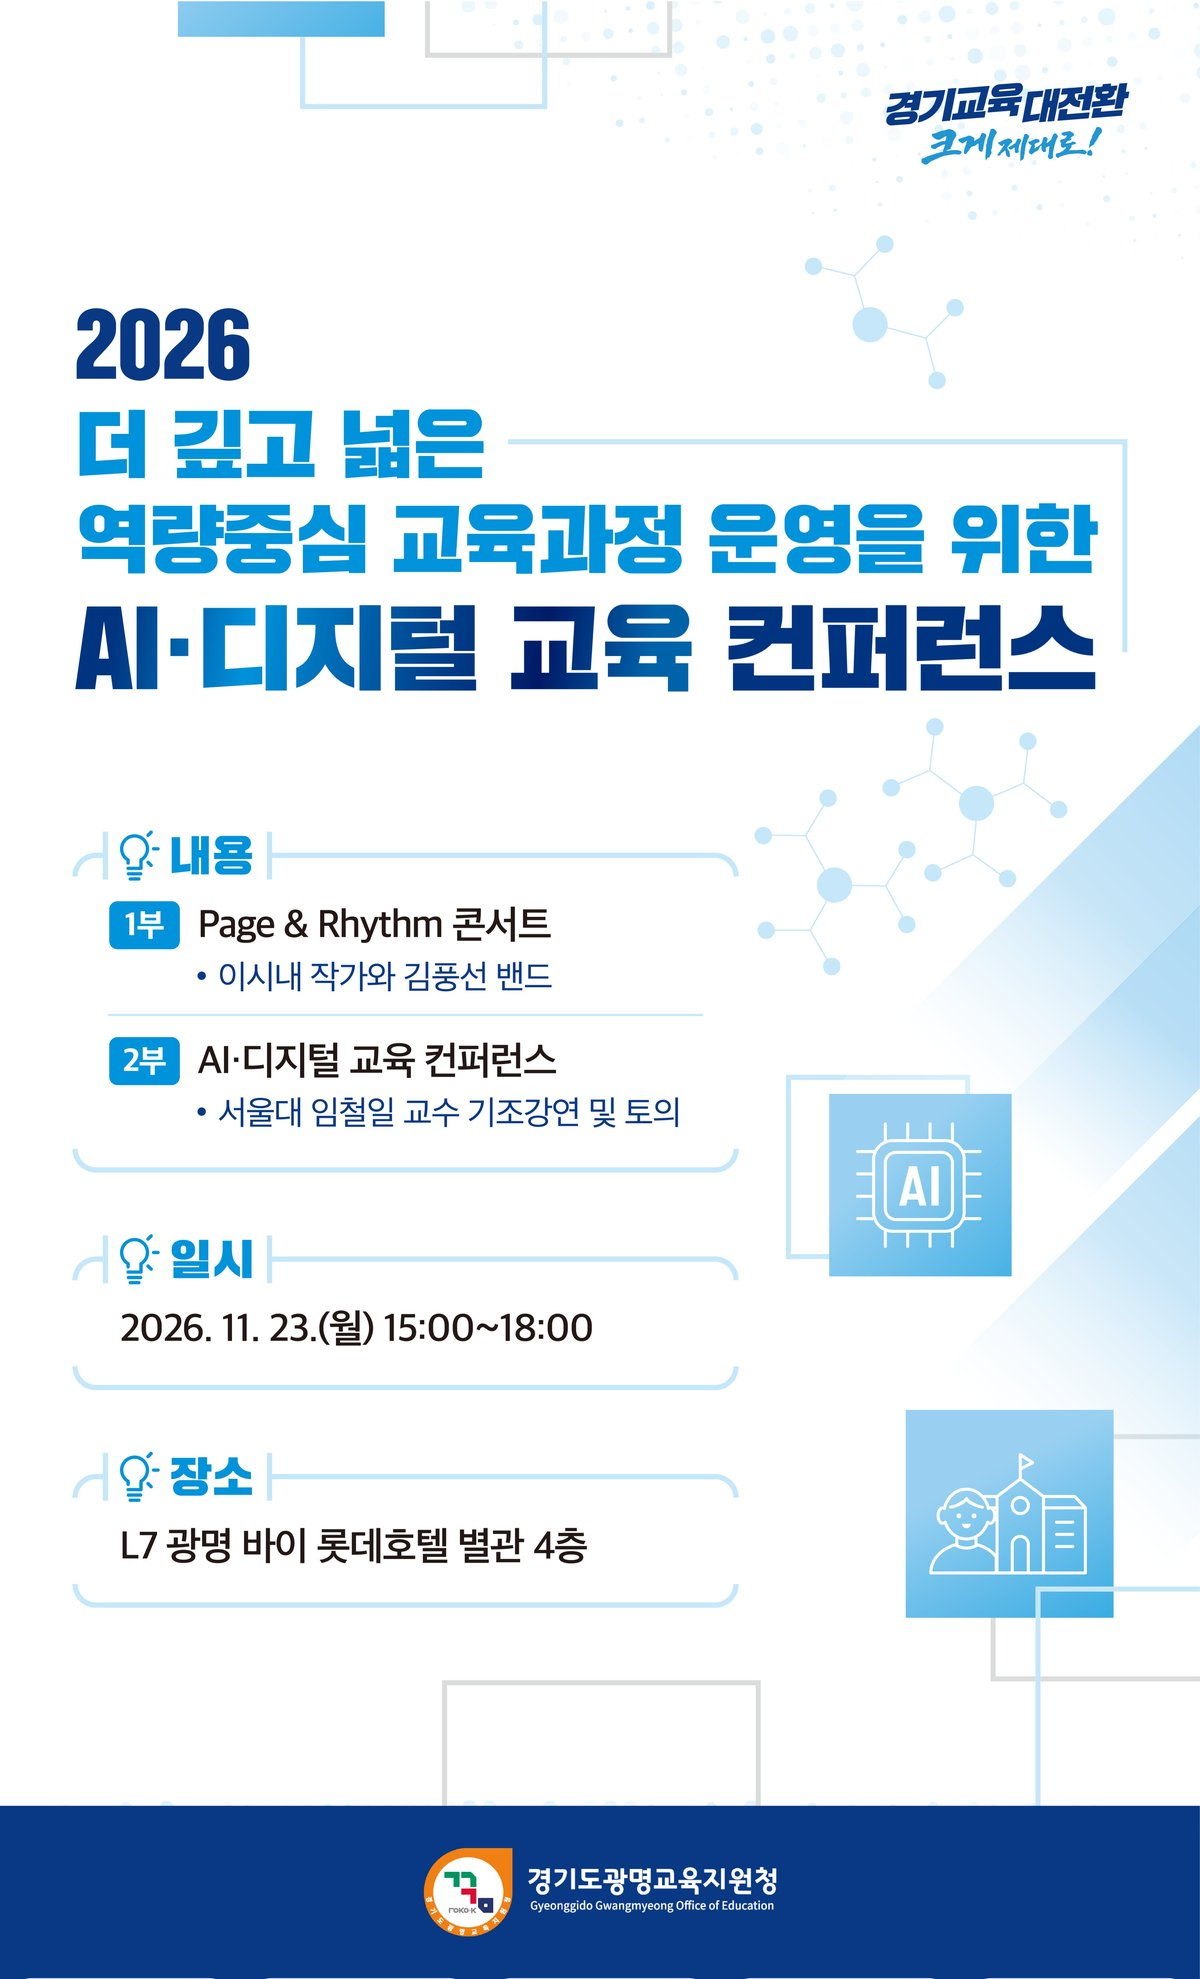
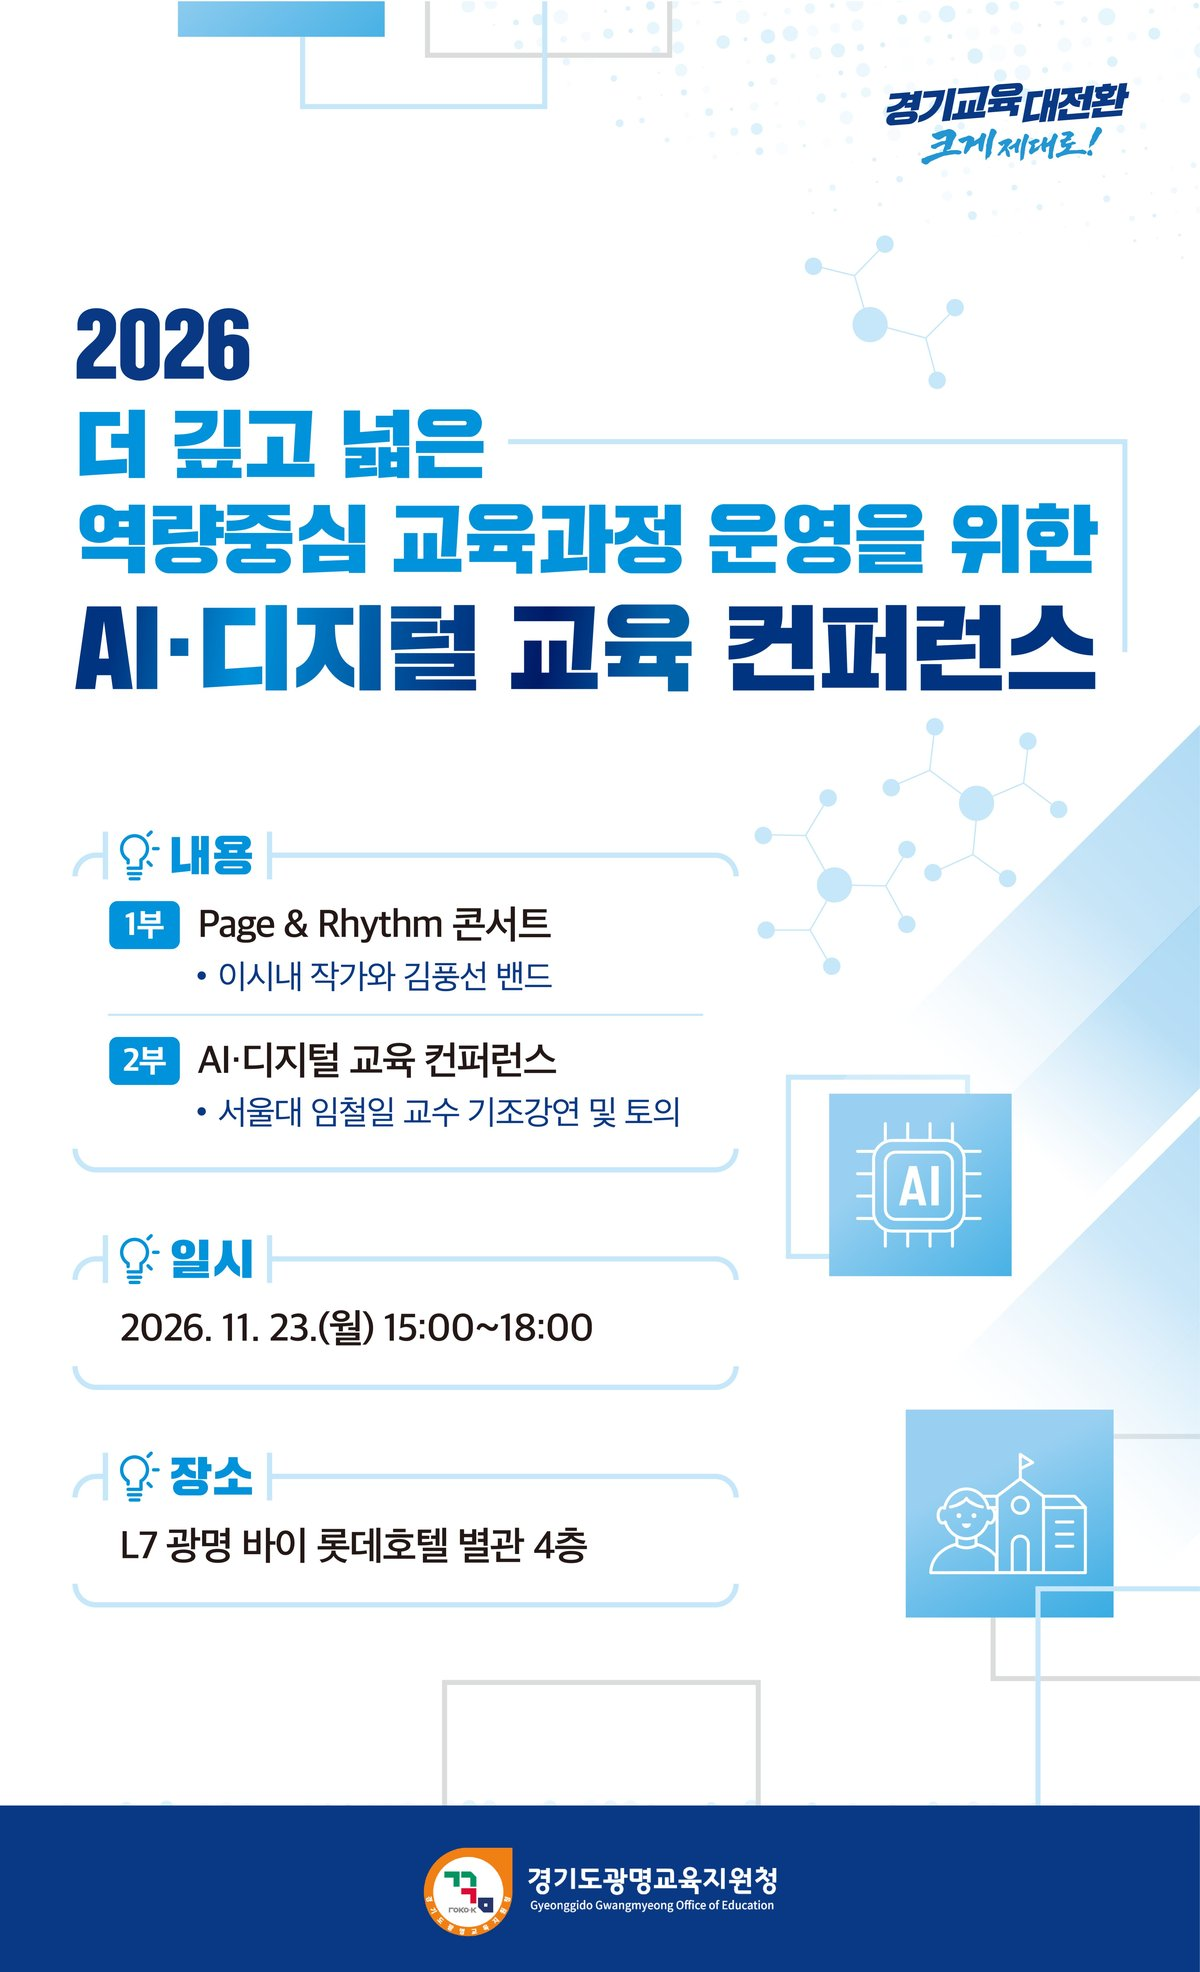
Add files via upload

diff --git a/index.html b/index.html
@@ -6,7 +6,7 @@
 <title>2026 AI·디지털 교육 컨퍼런스 초대장</title>
 <meta name="description" content="2026. 11. 23.(월) 15:00 · L7 광명 바이 롯데호텔 별관 4층 그랜드볼룸">
 
-<!-- 카카오톡·SNS 미리보기 (배포 후 https://designportmain.github.io/ai-conference 부분을 실제 주소로 바꿔주세요) -->
+<!-- 카카오톡·SNS 미리보기: 주소가 바뀌면 아래 두 줄의 주소도 함께 바꿔주세요 -->
 <meta property="og:type" content="website">
 <meta property="og:title" content="경기도광명교육지원청">
 <meta property="og:description" content="2026 AI·디지털 교육 컨퍼런스에 초대합니다">
@@ -17,17 +17,39 @@
 
 <style>
   *{margin:0;padding:0;box-sizing:border-box}
-  html{scroll-behavior:smooth;background:#e9f3fb}
+  html,body{height:100%;background:#dfe9f3;overflow:hidden;overscroll-behavior:none}
   body{font-family:-apple-system,"Apple SD Gothic Neo","Malgun Gothic",sans-serif}
-  .wrap{max-width:480px;margin:0 auto;background:#fff;padding-bottom:calc(14.67vw + env(safe-area-inset-bottom));box-shadow:0 0 24px rgba(11,57,133,.12)}
-  @media(min-width:480px){.wrap{padding-bottom:calc(70px + env(safe-area-inset-bottom))}}
-  section{position:relative;line-height:0}
-  section img{width:100%;height:auto;display:block}
+  .app{position:relative;height:100%;height:100dvh;max-width:480px;margin:0 auto;display:flex;flex-direction:column;background:#fff;box-shadow:0 0 24px rgba(11,57,133,.15)}
+  /* 가로 넘김 영역 */
+  .slider{flex:1;min-height:0;display:flex;overflow-x:auto;overflow-y:hidden;scroll-snap-type:x mandatory;scroll-behavior:smooth;scrollbar-width:none;-webkit-overflow-scrolling:touch}
+  .slider::-webkit-scrollbar{display:none}
+  .page{flex:0 0 100%;height:100%;scroll-snap-align:start;scroll-snap-stop:always;overflow-y:auto;overflow-x:hidden;scrollbar-width:none}
+  .page::-webkit-scrollbar{display:none}
+  .inner{min-height:100%;display:flex;align-items:center}
+  .art{position:relative;width:100%;line-height:0}
+  .art img{width:100%;height:auto;display:block;-webkit-user-drag:none;user-select:none}
+  .p1{background:linear-gradient(#fff 50%,#093785 50%)}
+  .p2,.p3{background:#fff}
+  .p4{background:linear-gradient(#0f3c7d 50%,#c5e8fc 50%)}
   .anchor{position:absolute;left:0;width:1px;height:1px}
   .hot{position:absolute;display:block;border-radius:12px;-webkit-tap-highlight-color:transparent}
   .hot:active{background:rgba(0,120,215,.18)}
   @media(hover:hover){.hot:hover{background:rgba(0,120,215,.10);outline:2px solid rgba(0,120,215,.35)}}
-  nav{position:fixed;left:50%;bottom:0;transform:translateX(-50%);width:100%;max-width:480px;z-index:10;line-height:0;background:#0b3985;padding-bottom:env(safe-area-inset-bottom)}
+  /* 페이지 표시 점 */
+  .dots{position:absolute;left:50%;transform:translateX(-50%);bottom:calc(var(--navh) + 10px);display:flex;gap:8px;padding:6px 10px;border-radius:12px;background:rgba(255,255,255,.8);box-shadow:0 1px 4px rgba(11,57,133,.2);pointer-events:none;z-index:5}
+  .dots i{width:8px;height:8px;border-radius:4px;background:rgba(255,255,255,.75);box-shadow:0 0 0 1px rgba(11,57,133,.35);transition:.25s}
+  .dots i.on{width:22px;background:#0090da}
+  /* PC용 좌우 화살표 */
+  .arrow{position:absolute;top:calc(50% - var(--navh)/2);transform:translateY(-50%);width:40px;height:40px;border-radius:50%;border:0;background:rgba(11,57,133,.55);color:#fff;font-size:20px;cursor:pointer;z-index:6;display:none}
+  .arrow.prev{left:8px} .arrow.next{right:8px}
+  @media(hover:hover) and (pointer:fine){.arrow{display:block}.arrow[disabled]{opacity:0;pointer-events:none}}
+  /* 처음 한 번 넘김 안내 */
+  .hint{position:absolute;right:12px;top:calc(50% - var(--navh)/2);transform:translateY(-50%);background:rgba(11,57,133,.8);color:#fff;font-size:13px;line-height:1;padding:9px 12px;border-radius:20px;z-index:6;pointer-events:none;animation:nudge 1.2s ease-in-out 3;transition:opacity .4s}
+  @keyframes nudge{50%{transform:translate(-8px,-50%)}}
+  .hint.hide{opacity:0}
+  @media(hover:hover) and (pointer:fine){.hint{display:none}}
+  /* 하단 메뉴 */
+  nav{position:relative;flex:none;line-height:0;background:#0b3985;padding-bottom:env(safe-area-inset-bottom)}
   nav img{width:100%;height:auto;display:block}
   nav .tabs{position:absolute;inset:0 0 env(safe-area-inset-bottom) 0;display:flex}
   nav .tabs a{flex:1;position:relative;-webkit-tap-highlight-color:transparent}
@@ -36,39 +58,99 @@
 </style>
 </head>
 <body>
-<div class="wrap">
-  <section id="home"><img src="img/sec1.jpg" width="1200" height="1979" alt="2026 더 깊고 넓은 역량중심 교육과정 운영을 위한 AI·디지털 교육 컨퍼런스. 일시 2026년 11월 23일(월) 15:00~18:00, 장소 L7 광명 바이 롯데호텔 별관 4층"></section>
-  <section id="schedule"><img src="img/sec2.jpg" width="1200" height="1924" alt="초대의 글과 일정안내" loading="lazy"></section>
-  <section id="program"><img src="img/sec3.jpg" width="1200" height="1924" alt="Page &amp; Rhythm 공감 콘서트 프로그램, 운영자료와 설문 링크" loading="lazy">
-    <span class="anchor" id="materials" style="top:58%"></span>
-    <span class="anchor" id="survey" style="top:85%"></span>
-    <a class="hot" href="https://m.site.naver.com/2kIKh" target="_blank" rel="noopener" style="left:24.16%;top:68.00%;width:20.91%;height:12.49%" aria-label="학교 사례 모음"></a><a class="hot" href="https://m.site.naver.com/2kN09" target="_blank" rel="noopener" style="left:54.87%;top:68.00%;width:21.04%;height:12.49%" aria-label="원고 및 발제문"></a><a class="hot" href="https://m.site.naver.com/2kIIy" target="_blank" rel="noopener" style="left:15.18%;top:86.09%;width:14.98%;height:10.98%" aria-label="사전질문"></a><a class="hot" href="https://m.site.naver.com/2kII1" target="_blank" rel="noopener" style="left:42.58%;top:86.09%;width:14.91%;height:10.98%" aria-label="만족도설문"></a><a class="hot" href="https://m.site.naver.com/2kJ4w" target="_blank" rel="noopener" style="left:69.84%;top:86.09%;width:14.91%;height:10.98%" aria-label="자리배치도"></a>
-  </section>
-  <section id="map"><img src="img/sec4.jpg" width="1200" height="1924" alt="오시는 길: L7 광명 바이 롯데호텔 별관 4층 그랜드볼룸" loading="lazy"><a class="hot" href="https://map.naver.com/p/search/L7%20%EA%B4%91%EB%AA%85%20%EB%B0%94%EC%9D%B4%20%EB%A1%AF%EB%8D%B0%ED%98%B8%ED%85%94" target="_blank" rel="noopener" style="left:8.84%;top:81.14%;width:39.82%;height:5.72%" aria-label="네이버 지도에서 보기"></a><a class="hot" href="https://map.kakao.com/link/search/L7%EA%B4%91%EB%AA%85%EB%B0%94%EC%9D%B4%EB%A1%AF%EB%8D%B0%ED%98%B8%ED%85%94" target="_blank" rel="noopener" style="left:51.42%;top:81.14%;width:39.69%;height:5.72%" aria-label="카카오맵에서 보기"></a></section>
+<div class="app">
+  <div class="slider" id="slider">
+    <section class="page p1" id="home"><div class="inner"><div class="art">
+      <img src="img/sec1.jpg" width="1200" height="1972" alt="2026 더 깊고 넓은 역량중심 교육과정 운영을 위한 AI·디지털 교육 컨퍼런스. 일시 2026년 11월 23일(월) 15:00~18:00, 장소 L7 광명 바이 롯데호텔 별관 4층">
+    </div></div></section>
+    <section class="page p2" id="schedule"><div class="inner"><div class="art">
+      <img src="img/sec2.jpg" width="1200" height="1924" alt="초대의 글과 일정안내">
+    </div></div></section>
+    <section class="page p3" id="program"><div class="inner"><div class="art">
+      <img src="img/sec3.jpg" width="1200" height="1924" alt="Page &amp; Rhythm 공감 콘서트 프로그램, 운영자료와 설문 링크">
+      <span class="anchor" id="materials" style="top:58%"></span>
+      <span class="anchor" id="survey" style="top:85%"></span>
+      <a class="hot" href="https://m.site.naver.com/2kIKh" target="_blank" rel="noopener" style="left:24.16%;top:68.00%;width:20.91%;height:12.49%" aria-label="학교 사례 모음"></a><a class="hot" href="https://m.site.naver.com/2kN09" target="_blank" rel="noopener" style="left:54.87%;top:68.00%;width:21.04%;height:12.49%" aria-label="원고 및 발제문"></a><a class="hot" href="https://m.site.naver.com/2kIIy" target="_blank" rel="noopener" style="left:15.18%;top:86.09%;width:14.98%;height:10.98%" aria-label="사전질문"></a><a class="hot" href="https://m.site.naver.com/2kII1" target="_blank" rel="noopener" style="left:42.58%;top:86.09%;width:14.91%;height:10.98%" aria-label="만족도설문"></a><a class="hot" href="https://m.site.naver.com/2kJ4w" target="_blank" rel="noopener" style="left:69.84%;top:86.09%;width:14.91%;height:10.98%" aria-label="자리배치도"></a>
+    </div></div></section>
+    <section class="page p4" id="map"><div class="inner"><div class="art">
+      <img src="img/sec4.jpg" width="1200" height="1924" alt="오시는 길: L7 광명 바이 롯데호텔 별관 4층 그랜드볼룸"><a class="hot" href="https://map.naver.com/p/search/L7%20%EA%B4%91%EB%AA%85%20%EB%B0%94%EC%9D%B4%20%EB%A1%AF%EB%8D%B0%ED%98%B8%ED%85%94" target="_blank" rel="noopener" style="left:8.84%;top:81.14%;width:39.82%;height:5.72%" aria-label="네이버 지도에서 보기"></a><a class="hot" href="https://map.kakao.com/link/search/L7%EA%B4%91%EB%AA%85%EB%B0%94%EC%9D%B4%EB%A1%AF%EB%8D%B0%ED%98%B8%ED%85%94" target="_blank" rel="noopener" style="left:51.42%;top:81.14%;width:39.69%;height:5.72%" aria-label="카카오맵에서 보기"></a>
+    </div></div></section>
+  </div>
+
+  <div class="dots" id="dots"><i></i><i></i><i></i><i></i></div>
+  <button class="arrow prev" id="prev" aria-label="이전 페이지">‹</button>
+  <button class="arrow next" id="next" aria-label="다음 페이지">›</button>
+  <div class="hint" id="hint">옆으로 넘겨보세요 ›</div>
+
+  <nav id="nav">
+    <img src="img/nav.jpg" width="1200" height="176" alt="">
+    <div class="tabs">
+      <a href="#home" data-p="0" aria-label="홈"></a>
+      <a href="#schedule" data-p="1" aria-label="일정안내"></a>
+      <a href="#materials" data-p="2" data-a="materials" aria-label="운영자료"></a>
+      <a href="#survey" data-p="2" data-a="survey" aria-label="사전질문&amp;설문"></a>
+      <a href="#map" data-p="3" aria-label="오시는 길"></a>
+    </div>
+  </nav>
 </div>
 
-<nav>
-  <img src="img/nav.jpg" width="1200" height="176" alt="">
-  <div class="tabs">
-    <a href="#home" data-t="home" aria-label="홈"></a>
-    <a href="#schedule" data-t="schedule" aria-label="일정안내"></a>
-    <a href="#materials" data-t="materials" aria-label="운영자료"></a>
-    <a href="#survey" data-t="survey" aria-label="사전질문&amp;설문"></a>
-    <a href="#map" data-t="map" aria-label="오시는 길"></a>
-  </div>
-</nav>
-
 <script>
-  // 현재 보고 있는 구역에 맞춰 하단 메뉴 표시
+(function(){
+  const app=document.querySelector('.app'), slider=document.getElementById('slider');
+  const pages=[...slider.children], dots=[...document.querySelectorAll('#dots i')];
   const tabs=[...document.querySelectorAll('nav .tabs a')];
-  const pts=['home','schedule','materials','survey','map'].map(id=>document.getElementById(id));
-  function mark(){
-    const y=window.innerHeight*0.4; let cur=0;
-    pts.forEach((el,i)=>{ if(el.getBoundingClientRect().top<=y) cur=i; });
-    if(window.innerHeight+window.scrollY>=document.body.scrollHeight-4) cur=4;
-    tabs.forEach((t,i)=>t.classList.toggle('on',i===cur));
+  const prev=document.getElementById('prev'), next=document.getElementById('next'), hint=document.getElementById('hint');
+  const nav=document.getElementById('nav');
+  let cur=0, p3tab=2;
+
+  function setNavH(){ app.style.setProperty('--navh', nav.offsetHeight+'px'); }
+  function idx(){ return Math.round(slider.scrollLeft/slider.clientWidth); }
+  function go(i,smooth=true){
+    i=Math.max(0,Math.min(pages.length-1,i));
+    slider.scrollTo({left:i*slider.clientWidth,behavior:smooth?'smooth':'auto'});
   }
-  addEventListener('scroll',mark,{passive:true}); addEventListener('resize',mark); mark();
+  function update(){
+    cur=idx();
+    dots.forEach((d,i)=>d.classList.toggle('on',i===cur));
+    prev.disabled=cur===0; next.disabled=cur===pages.length-1;
+    let t=[0,1,2,4][cur];
+    if(cur===2){
+      const p=pages[2], s=document.getElementById('survey');
+      const top=s.getBoundingClientRect().top-p.getBoundingClientRect().top;
+      const atBottom=p.scrollTop+p.clientHeight>=p.scrollHeight-2;
+      if(p.scrollHeight<=p.clientHeight+2) t=p3tab;
+      else t = top<p.clientHeight*0.35 ? 3 : (atBottom ? p3tab : 2);
+    }
+    tabs.forEach((a,i)=>a.classList.toggle('on',i===t));
+    if(cur>0) hint.classList.add('hide');
+  }
+  // 메뉴: 해당 페이지로 넘기고, 같은 페이지 안 위치(운영자료/설문)로 이동
+  tabs.forEach(a=>a.addEventListener('click',e=>{
+    e.preventDefault();
+    const p=+a.dataset.p; if(p===2) p3tab=tabs.indexOf(a); go(p);
+    const page=pages[p];
+    if(a.dataset.a){
+      const el=document.getElementById(a.dataset.a);
+      const y=page.scrollTop+el.getBoundingClientRect().top-page.getBoundingClientRect().top;
+      page.scrollTo({top:y-page.clientHeight*0.25,behavior:'smooth'});
+    } else page.scrollTo({top:0,behavior:'smooth'});
+    history.replaceState(null,'',a.getAttribute('href'));
+    update(); setTimeout(update,700);
+  }));
+  prev.onclick=()=>go(cur-1); next.onclick=()=>go(cur+1);
+  addEventListener('keydown',e=>{ if(e.key==='ArrowRight') go(cur+1); if(e.key==='ArrowLeft') go(cur-1); });
+  slider.addEventListener('scroll',update,{passive:true});
+  pages.forEach(p=>p.addEventListener('scroll',update,{passive:true}));
+  addEventListener('resize',()=>{ setNavH(); go(cur,false); });
+  setTimeout(()=>hint.classList.add('hide'),4500);
+  // 주소 뒤 #map 같은 표시로 바로 열기
+  window.addEventListener('load',()=>{
+    setNavH();
+    const h=location.hash.slice(1), a=tabs.find(t=>t.getAttribute('href')==='#'+h);
+    if(a) a.click(); update();
+  });
+  setNavH(); update();
+})();
 </script>
 </body>
 </html>
